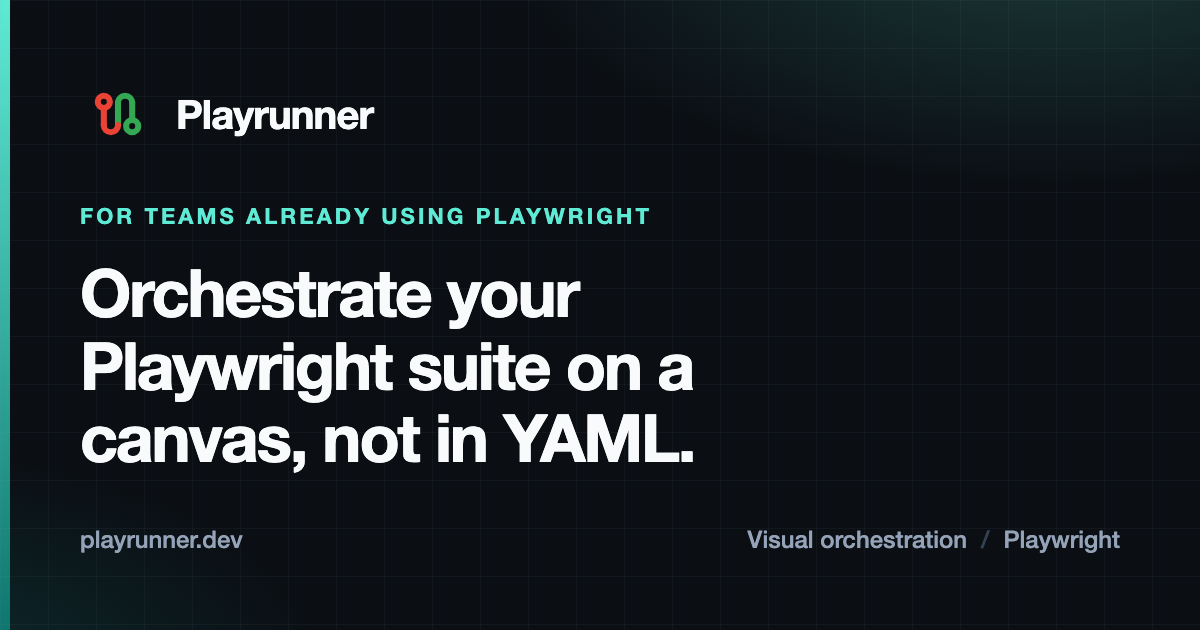
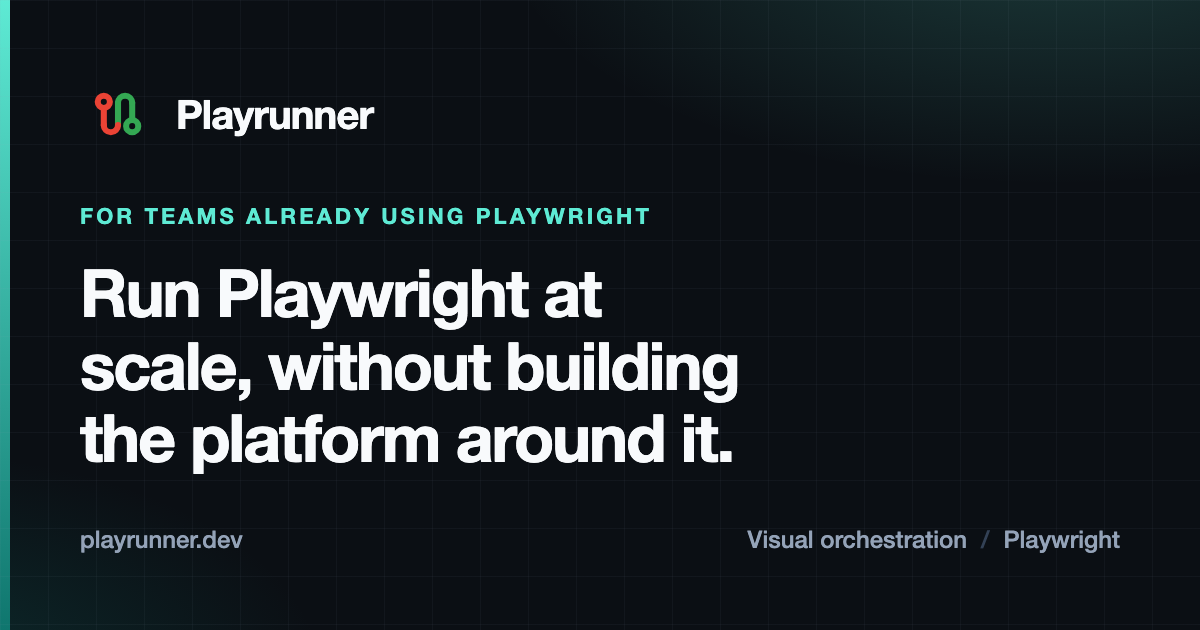
fix(seo): realign positioning surfaces with the scale hero, add sharding use-case page (#80)
* fix(seo): realign site metadata with the scale hero

The homepage was rebuilt around scaling in 63fa7a9, but four surfaces
outside that commit still carried the superseded positioning:

- the site tagline, which surfaces in RSS, DocSearch and link previews
- the primary OG card, used as og:image on all 61 pages, so every social
  share displayed the old line
- the WebSite JSON-LD description
- the web app manifest description

Also adds sharding terms to the keyword list, which had none.

OG card regenerated with `node scripts/build-og.mjs`; only
playrunner-og.png changed, the other five re-rendered identically.

* feat(seo): add automatic sharding use-case page

Auto sharding shipped on 2026-08-14 but had no durable landing target —
only a docs anchor (#suite-sharding), which cannot rank on its own, and a
dated blog post.

Deliberately does not target "playwright sharding" head-on. That SERP is
saturated with how-to explainers sitting behind playwright.dev's own
sharding docs, which will not be outranked. Every one of those articles
ends at the same manual recipe: --shard=1/4, a CI matrix, merge-reports,
and a hand-tuned count. This page targets the decision instead — "how
many shards", "optimal shard count", "sharding without matrix" — which is
the part auto mode actually removes and nobody is writing about.

Per BRIEF.md:150-151, claims automatic sharding (shipped) and stays clear
of elastic execution (roadmap). Keeps Anthony's concession that a team
[…]

Changed region(s): [[0.0617, 0.4222, 0.6167, 0.754]]

diff --git a/docs/docusaurus.config.ts b/docs/docusaurus.config.ts
@@ -62,7 +62,7 @@ const twitterHandle: string | undefined = '@playrunner_';
 
 const config: Config = {
   title: 'Playrunner',
-  tagline: 'Orchestrate your Playwright suite on a canvas, not in YAML.',
+  tagline: 'Run Playwright at scale, without building the platform around it.',
   favicon: 'img/favicon.svg',
   customFields: {
     localDocsLandingPath: process.env.DOCS_LANDING_PATH || '/',
@@ -206,6 +206,9 @@ const config: Config = {
         content: [
           'playwright orchestration',
           'playwright test automation',
+          'playwright sharding',
+          'parallel playwright tests',
+          'playwright test distribution',
           'visual workflow builder',
           'e2e test orchestration',
           'playwright runners',

diff --git a/docs/src/components/StructuredData/index.tsx b/docs/src/components/StructuredData/index.tsx
@@ -50,7 +50,8 @@ export const website = (hasSearch: boolean) => ({
   '@id': WEBSITE_ID,
   url: `${SITE_URL}/`,
   name: 'Playrunner',
-  description: 'Orchestrate your Playwright suite on a canvas, not in YAML.',
+  description:
+    'Run Playwright at scale, without building the platform around it.',
   publisher: { '@id': ORGANIZATION_ID },
   inLanguage: 'en',
   ...(hasSearch

diff --git a/docs/docs/use-cases/automatic-playwright-sharding.md b/docs/docs/use-cases/automatic-playwright-sharding.md
@@ -1,0 +1,193 @@
+---
+sidebar_position: 7
+sidebar_label: Automatic sharding
+title: Choose a Playwright shard count automatically
+description: Stop hand-tuning shard counts and CI matrices. Auto sharding discovers the suite, sizes the plan against runner capacity, and merges every shard back into one report.
+keywords:
+  [
+    'how many shards playwright',
+    'playwright shard count',
+    'optimal playwright shard count',
+    'dynamic playwright sharding',
+    'playwright sharding without matrix',
+    'playwright test distribution',
+  ]
+---
+
+# Choose a Playwright shard count automatically
+
+Splitting a Playwright suite across machines is a solved problem. Playwright
+ships `--shard` and `merge-reports`, and the
+[sharding documentation](https://playwright.dev/docs/test-sharding) explains
+both well.
+
+What stays unsolved is the number. `--shard=1/4` means someone decided on four,
+and that decision is usually made once, by hand, and then quietly outlives the
+suite it was sized for. Add 300 tests and four shards is too few. Delete a
+slow project and you are paying for runners that finish in twelve seconds.
+
+Auto sharding makes the shard count an output of the suite rather than an
+input from a config file.
+
+## When this is worth it
+
+Be honest about the threshold. If you need four fixed shards in GitHub Actions
+and the suite is stable, a matrix plus `merge-reports` does the job, and this
+page will not improve your life much.
+
+It becomes worth it when:
+
+- The suite grows or changes shape often enough that a fixed count drifts.
+- You run the same suite in more than one place, and each place has different
+  capacity.
+- Shard count, runner size, artefact collection, and the merge job are
+  duplicated across several repositories' pipeline files.
+
+## What you need
+
+- Playrunner running — see [Get started](/docs/start/).
+- A repository with Playwright tests
+  [connected through GitHub](/docs/tutorials/connect-github/).
+- The TypeScript Playwright Test runtime. Sharding and blob-report merging
+  currently require it.
+
+## Build the workflow
+
+```text
+Environment ──sequential──▶ Playwright
+```
+
+That is the whole graph. Sharding is a setting on the Playwright node, not a
+row of parallel nodes you wire up yourself — the fan-out happens beneath the
+node at run time.
+
+Open the node and set **Suite sharding** to one of three modes:
+
+- **Off** runs the suite once, with no shard argument.
+- **Manual** requests a specific shard count. Playrunner never creates more
+  shards than the suite has shardable units, and rejects a request that exceeds
+  the runner backend's capacity.
+- **Auto** discovers the suite first, then treats your configured shard, CPU,
+  memory, and worker values as _maximums_.
+
+The rest of this page is about Auto.
+
+## How the count gets chosen
+
+### 1. Discovery
+
+Auto starts a discovery runner and collects the suite without executing it:
+
+```bash
+playwright test --list --reporter=json
+```
+
+That records the test count, file count, project count, Playwright parallel
+mode, and source revision.
+
+### 2. Shardable units
+
+How those tests can be divided depends on your own Playwright config:
+
+- With `fullyParallel: true`, each **test** is a shardable unit.
+- Otherwise, each **file and project combination** is a unit. Tests in the same
+  file and project stay together.
+
+This is the part most manual shard counts get wrong. A suite that is not fully
+parallel cannot be split more finely than its files, so asking for 32 shards on
+20 files buys you 20 shards and 12 idle runners.
+
+### 3. The useful count
+
+Auto allows roughly four shardable units per configured worker on a shard:
+
+```text
+ceil(shardable units / (maximum workers per shard * 4))
+```
+
+The actual shard count is then the smallest of three numbers:
+
+1. **Maximum shards** configured on the node.
+2. The useful count from discovery.
+3. The capacity the runner backend can currently supply.
+
+So 12 fully parallel tests with one worker per shard produce three useful
+shards. Setting **Maximum shards** to eight still launches three:
+
+```text
+ceil(12 / (1 * 4)) = 3 useful shards
+min(8 configured, 3 useful, available capacity) = 3 shards
+```
+
+Capacity covers concurrent-runner, shard-count, aggregate CPU, aggregate
+memory, and aggregate worker limits. Local execution defaults to no more than
+four concurrent shards, bounded further by the CPU and memory visible to the
+local Orchestrator.
+
+### 4. History, once there is any
+
+When comparable previous runs exist, Playrunner reuses the previously allocated
+memory rather than jumping back to the first-run maximum, and estimates
+duration by scaling the median previous duration for suite size and effective
+parallelism. Set **Target duration in minutes** and it selects the smallest CPU
+shape estimated to meet that target.
+
+## Reading the plan
+
+Expand the runtime plan in the workflow editor. It shows the selected shard
+count, workers and resources per shard, aggregate resources, discovery totals,
+history sample count, estimated duration where available, and — most usefully
+when the number surprises you — **which of the three constraints limited the
+plan**: your configured maximum, the suite size, or runner capacity.
+
+If you asked for eight and got three, that field tells you whether to raise the
+maximum, restructure the suite, or add capacity.
+
+## Execution and merging
+
+Every shard runner launches concurrently with Playwright's native argument and
+produces a blob report:
+
+```bash
+playwright test --shard=1/3 --reporter=blob
+playwright test --shard=2/3 --reporter=blob
+playwright test --shard=3/3 --reporter=blob
+```
+
+Playrunner records a checksum, size, Playwright version, source revision, and
+shard index for every blob. Before aggregating it verifies that all shard
+indexes are present, none is duplicated, every report came from the same
+Playwright version, and each downloaded blob matches its recorded size and
+checksum. A merged report built from a half-uploaded blob is worse than no
+report, because it looks complete.
+
+A final aggregation runner then merges the verified blobs:
+
+```bash
+playwright merge-reports --reporter=html,json
+```
+
+The merged output is what the rest of the workflow sees — one report, one
+result, whatever the shard count was.
+
+### When a shard fails
+
+The Playwright node's outcome is an error, as it should be. But if every shard
+still produced a valid blob, the merge runs anyway, so the combined failure
+detail survives for diagnosis. Discovery, each numbered shard, and the merge
+stay visible beneath the node on the canvas.
+
+## What the pipeline keeps
+
+One responsibility: start the workflow, react to the result. No shard matrix,
+no runner provisioning step, no artefact-shuttling job, no separate merge job
+to keep in sync with the shard count above it.
+
+## Related
+
+- [Playwright integration reference](/docs/integration-packages/playwright/#suite-sharding)
+  — every sharding setting on the node.
+- [Run Playwright tests on a schedule](/docs/use-cases/scheduled-playwright-test-runs/)
+  — nightly regressions are usually the suite worth sharding.
+- [Slack alerts for failed Playwright tests](/docs/use-cases/slack-alerts-for-failed-playwright-tests/)
+  — route the merged result somewhere useful.

diff --git a/docs/docs/use-cases/index.md b/docs/docs/use-cases/index.md
@@ -2,7 +2,7 @@
 sidebar_position: 1
 sidebar_label: Overview
 title: Playwright workflow use cases
-description: 'Common workflows built on the Playrunner canvas: Slack alerts, Jira bugs, AI failure triage, scheduled regression runs, and webhook-triggered tests.'
+description: 'Common workflows built on the Playrunner canvas: Slack alerts, Jira bugs, AI failure triage, scheduled regression runs, webhook-triggered tests, and automatic suite sharding.'
 image: /img/og/og-use-cases.png
 keywords:
   ['playwright workflow examples', 'playwright test automation workflows']
@@ -35,6 +35,12 @@ condition inside a script.
   — nightly and recurring runs without a cron job in CI.
 - **[Trigger Playwright tests from a webhook](/docs/use-cases/trigger-playwright-tests-from-a-webhook/)**
   — run a suite when another system says so, and report back when it finishes.
+
+## Scaling runs
+
+- **[Choose a Playwright shard count automatically](/docs/use-cases/automatic-playwright-sharding/)**
+  — discover the suite, size the plan against capacity, and merge every shard
+  back into one report.
 
 ## Related
 
